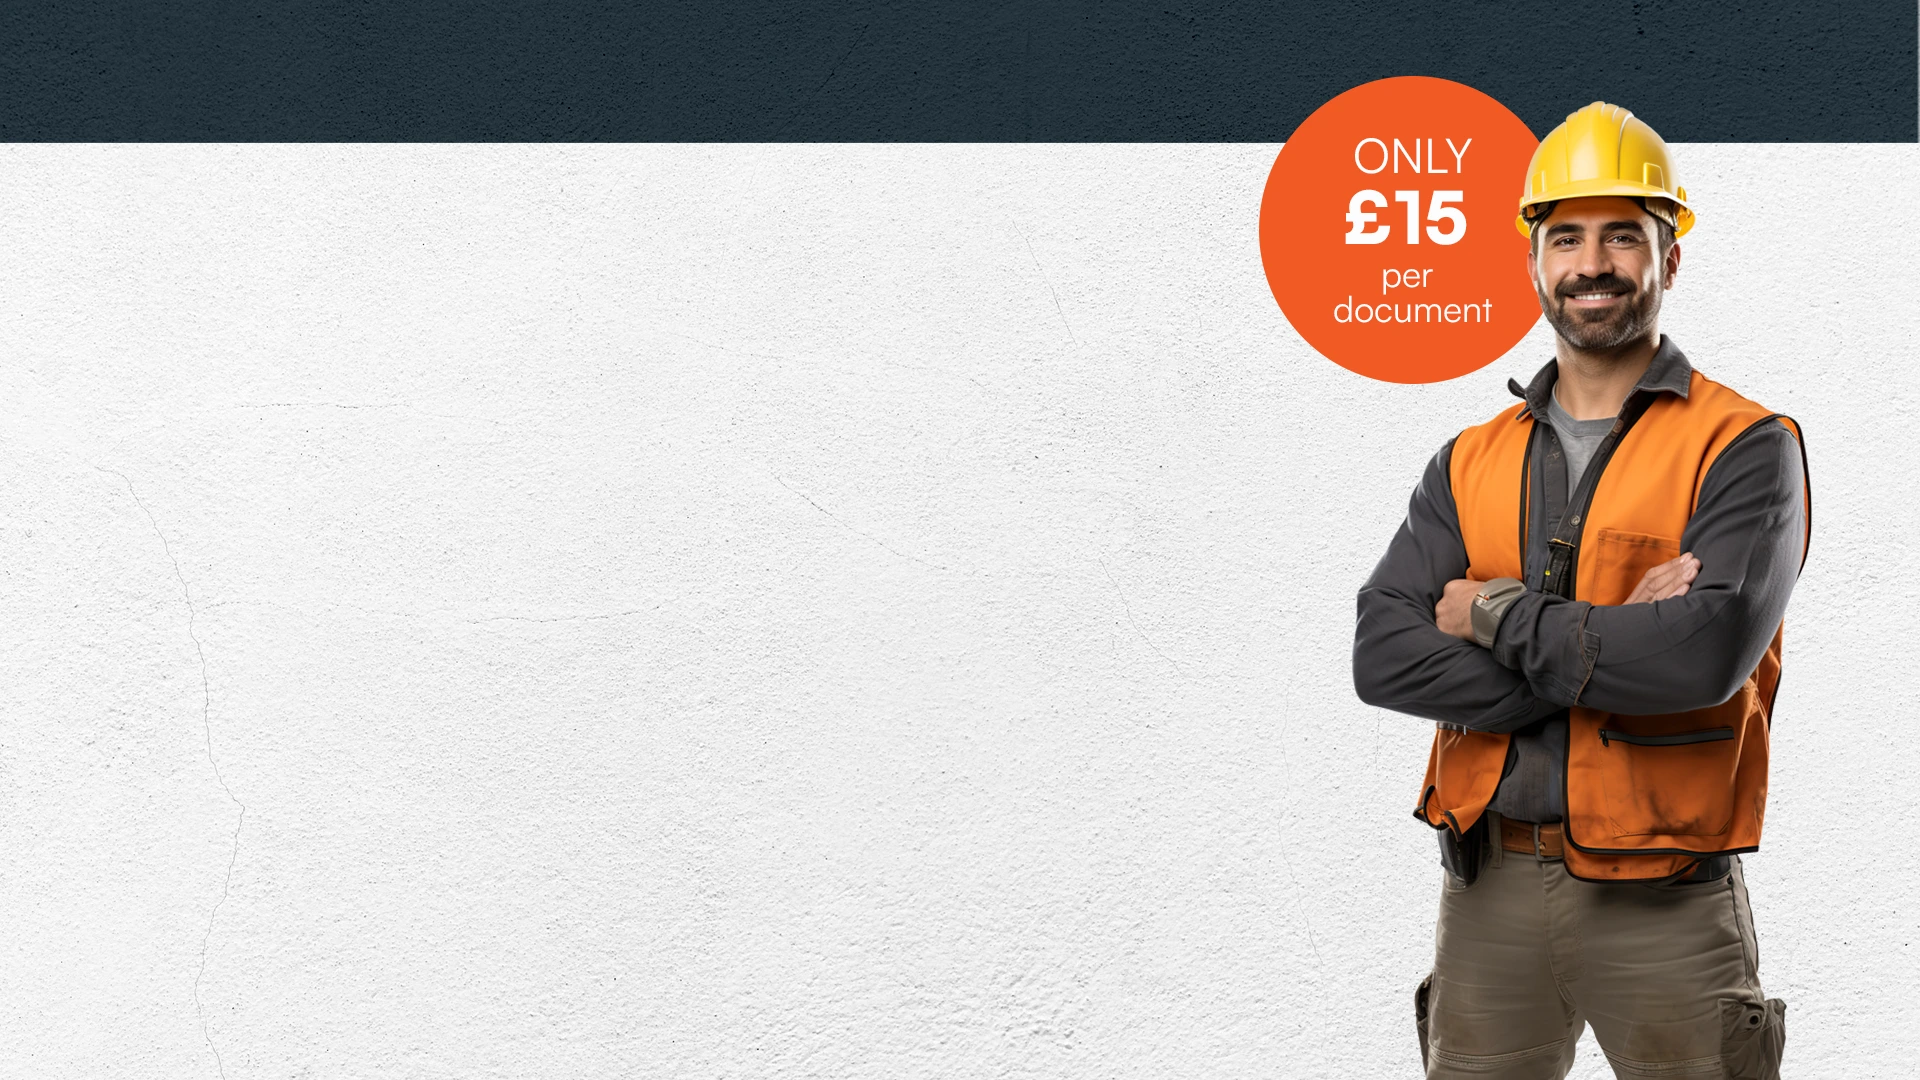
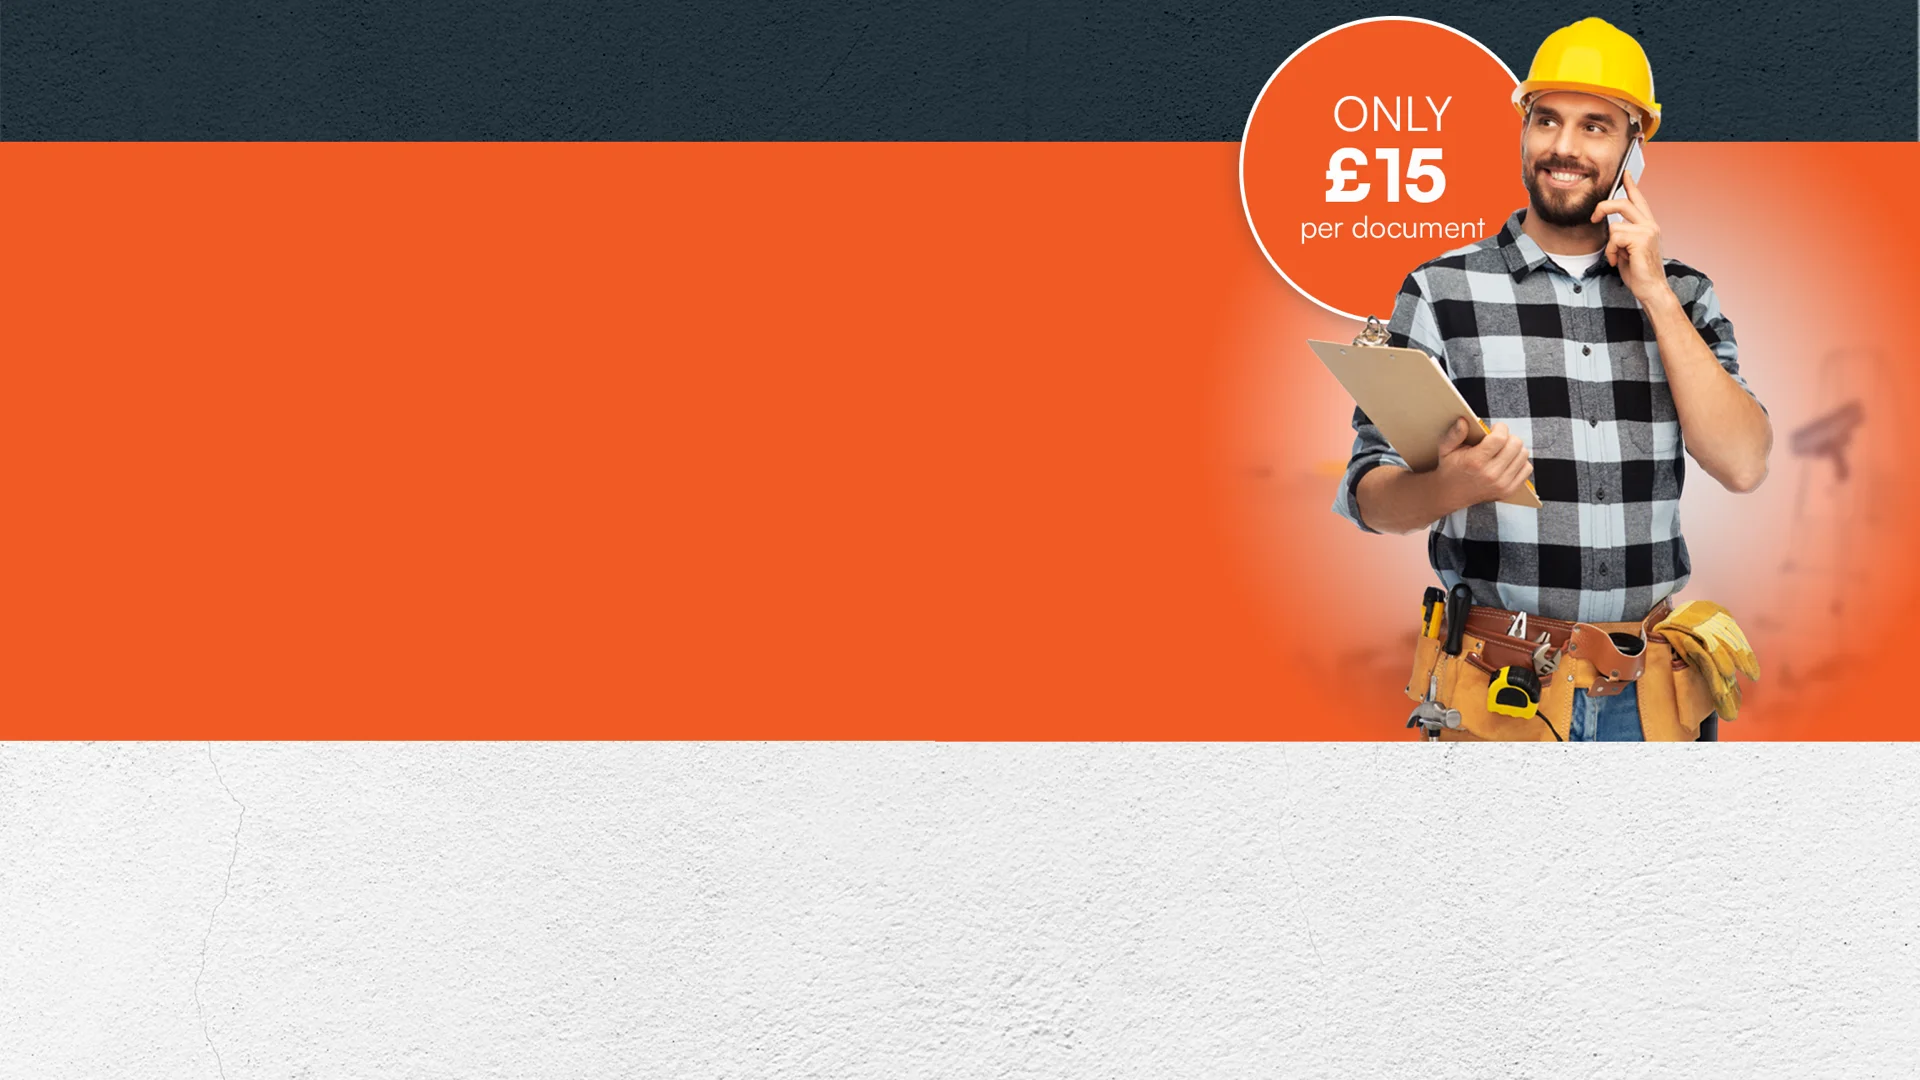
Swap homepage hero to the new orange-panel design
Replaces public/homepage-hero.webp with the new design
(HomescreenDes2_Ramsforge.png, resized to 1920x1080 and re-encoded as
WebP). The new design swaps the previous light-textured hero panel
for a solid orange one (with the same texture now only at the very
bottom), which needed two follow-up CSS fixes since the intro copy
was styled for a light background:

- .intro h1/p go white on desktop, since they always land on the
  orange panel near the top of the hero.
- .browse-link gets a self-contained white pill background instead of
  its default dark/orange-link colours, since it can land on either
  the orange or the light textured part of the image depending on
  viewport width (verified at 1440/1920/2560px — at 2560px the
  default orange link text was landing on the orange panel and
  becoming unreadable).

Dark masthead band height recalculated from the new source (170/2304
= 7.38%, effectively unchanged from the previous 7.4%) so the
overlaid logo positioning didn't need adjusting.

diff --git a/app/globals.css b/app/globals.css
@@ -135,9 +135,11 @@ a {
      Scoped to the homepage only — other pages keep the normal spacing. */
   .page-home .intro h1 {
     margin-bottom: 8px;
+    color: #fff;
   }
   .page-home .intro p {
     margin-bottom: 14px;
+    color: rgba(255, 255, 255, 0.9);
   }
   .page-home .trust-row {
     margin-top: -8px;
@@ -154,7 +156,17 @@ a {
     margin-bottom: 12px;
   }
   .page-home .browse-link {
+    /* This can land on either the orange or the light textured part of the
+       hero image depending on viewport width (the content flow is fixed,
+       but the image's colour bands scale with it) — a self-contained pill
+       background keeps it legible either way, rather than picking a text
+       colour that only works on one of the two. */
     margin-top: 10px;
+    display: inline-block;
+    background: rgba(255, 255, 255, 0.92);
+    padding: 8px 16px;
+    border-radius: 999px;
+    color: var(--ink);
   }
 }
 
